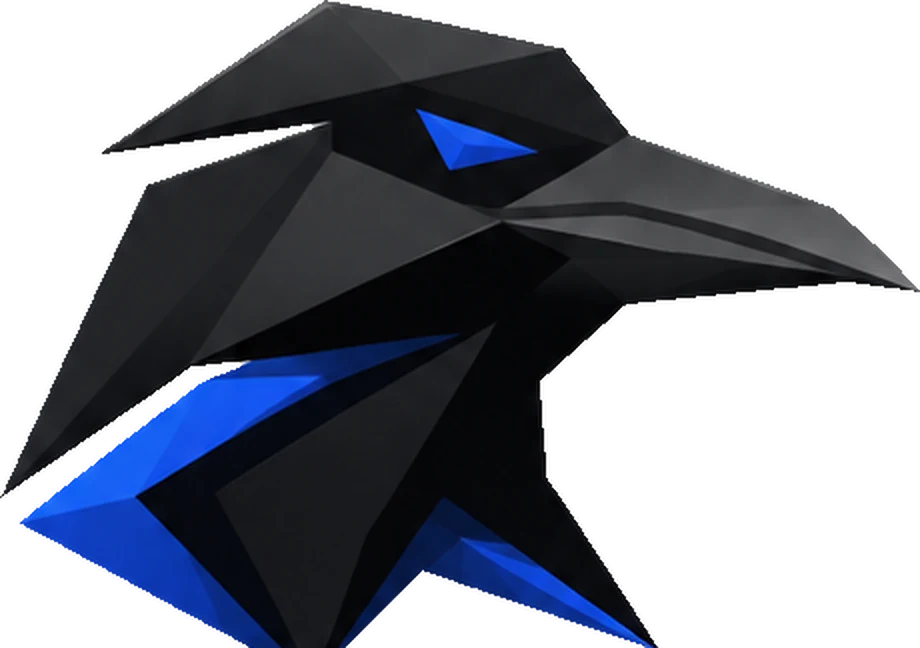
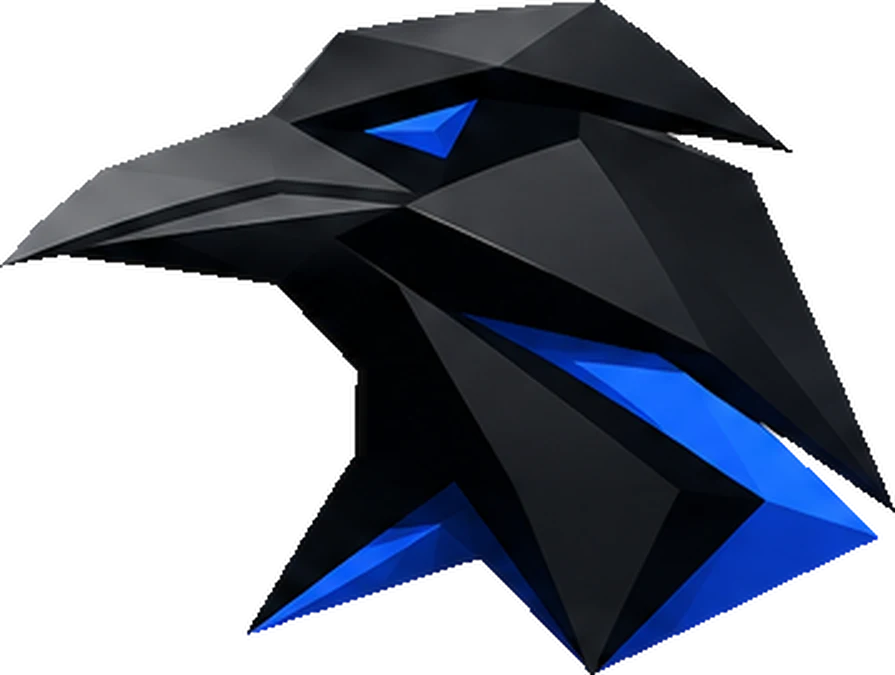
feat(marca): el cuervo mira al titular, y el azul sube a #0B5CFF
Mirando a la derecha, el ave le daba la espalda al texto que tiene al lado. Ahora usa la
orientación izquierda del kit — el render propio, no un espejo: espejar habría invertido
también la luz y las facetas dejan de tener sentido.

Y se acerca: justify-self: start en vez de end, y el hueco entre columnas baja de 6 a
3,5 rem como máximo. Al fondo de su columna quedaba a un palmo del titular, mirando a un
hueco en lugar de mirarlo a él.

El azul
-------
El kit declara #2563EB en su hoja de paleta, pero el dibujo del ave usa otro: su tono
dominante es #166BFB, mucho más vivo. Al lado del propio logo, el declarado se veía
apagado.

Pasa a #0B5CFF: saturación máxima y, además, más contraste que el declarado — 5,26x
contra 5,17x sobre blanco. Salir ganando en las dos cosas a la vez no suele pasar.

Favicon y tarjeta social regenerados con la orientación y el azul nuevos.
Medido a 320, 390, 834, 1440 y 1920 px en claro y oscuro: cero desbordamiento.

diff --git a/frontend/src/estilo.css b/frontend/src/estilo.css
@@ -20,17 +20,21 @@
 }
 
 :root {
-  /* La paleta viene del kit de marca: #2563EB, #111827, #1F2937, #6B7280, #F8FAFC.
-     Los cinco pasan AA sobre su fondo; el único que no llega es --acento-2, y por eso
-     solo aparece en degradados sobre texto grande. */
+  /* La paleta viene del kit de marca: #111827, #1F2937, #6B7280, #F8FAFC.
+
+     El azul NO es el #2563EB que declara la hoja del kit, sino #0B5CFF. El dibujo del ave
+     usa de verdad un azul mucho más vivo —su tono dominante es #166BFB— y el declarado se
+     quedaba apagado al lado del propio logo. #0B5CFF está a saturación máxima y además da
+     MÁS contraste que el declarado: 5,26x contra 5,17x sobre blanco. Salir ganando en las
+     dos cosas no suele pasar; cuando pasa, se coge. */
   --papel: #ffffff;
   --panel: #f8fafc;
   --tinta: #111827;
   --apagado: #6b7280;
-  --acento: #2563eb;
+  --acento: #0b5cff;
   /* El segundo acento existe para los degradados. Un degradado de un color a sí mismo
      aclarado se ve sucio; con dos tonos vecinos de verdad el titular tiene profundidad. */
-  --acento-2: #5b91f5;
+  --acento-2: #4f8cff;
   --linea: rgba(17, 24, 39, .14);
   --mono: "JetBrains Mono", ui-monospace, SFMono-Regular, Menlo, monospace;
   --serif: "Source Serif", Georgia, "Times New Roman", serif;
@@ -170,6 +174,10 @@ pre { overflow-x: auto; max-width: 100%; }
 
 /* El isotipo del kit: cabeza facetada en negro con las cuñas azules.
 
+   **Mira a la izquierda, a propósito.** Va a la derecha del titular, así que mirando a la
+   derecha le daba la espalda al texto. El kit trae las dos versiones y esta es un render
+   propio, no un espejo: espejar habría invertido también la luz.
+
    Un solo archivo para los dos temas. Se recortó del panel claro del kit y no del oscuro
    porque en el oscuro el fondo y las facetas negras del ave son el mismo negro —(7,8,13)
    contra (8,9,13)— y ahí no hay información que separar. Del claro sí sale, y funciona
@@ -182,11 +190,11 @@ pre { overflow-x: auto; max-width: 100%; }
 
 .marca { display: flex; align-items: center; gap: .55rem; text-decoration: none; }
 .marca .simbolo {
-  flex: none; width: 2.2rem; height: 1.55rem;
+  flex: none; width: 2.1rem; height: 1.6rem;
   background: url("/marca/simbolo.webp") center/contain no-repeat;
   transition: transform .35s cubic-bezier(.16, 1, .3, 1);
 }
-.marca:hover .simbolo { transform: translateX(2px) scale(1.06); }
+.marca:hover .simbolo { transform: translateX(-2px) scale(1.06); }
 .marca .palabra {
   font-family: var(--mono); font-weight: 800; font-size: 1.15rem; letter-spacing: -.02em;
 }
@@ -508,7 +516,7 @@ ul.prosa li { margin-bottom: .45rem; }
   right: 0;
   top: 1rem;
   width: clamp(11rem, 20vw, 17rem);
-  aspect-ratio: 920 / 648;
+  aspect-ratio: 895 / 675;
   background: url("/marca/simbolo.webp") center/contain no-repeat;
   pointer-events: none;
   z-index: 0;
@@ -517,7 +525,7 @@ ul.prosa li { margin-bottom: .45rem; }
 }
 
 @keyframes isotipo-entra {
-  from { opacity: 0; transform: translateX(1.5rem) scale(.94); }
+  from { opacity: 0; transform: translateX(1.8rem) scale(.94); }
   to   { opacity: 1; transform: none; }
 }
 @keyframes isotipo-flota {
@@ -668,7 +676,7 @@ ul.prosa li { margin-bottom: .45rem; }
        las dos y deja el «En Windows…» flotando lejos de la orden. Con la tercera fila en 1fr,
        todo el hueco cae ahí y el texto queda pegado a lo que explica. */
     grid-template-rows: auto auto 1fr auto auto;
-    column-gap: clamp(2.5rem, 5vw, 6rem);
+    column-gap: clamp(1.5rem, 3vw, 3.5rem);
     align-items: start;
   }
   .portada > .propuesta  { grid-area: propuesta; align-self: start; }
@@ -683,7 +691,9 @@ ul.prosa li { margin-bottom: .45rem; }
     grid-area: iso;
     position: relative; right: auto; top: auto;
     width: min(100%, clamp(13rem, 21vw, 24rem));
-    justify-self: end; align-self: center;
+    /* start y no end: pegada al titular. Al fondo de su columna quedaba a un palmo del texto
+       y el ave miraba a un hueco en vez de mirarlo a él. */
+    justify-self: start; align-self: center;
   }
 
   /* La promesa puede respirar un poco más cuando tiene su propia columna, pero sin pasar de

diff --git a/LEEME.md b/LEEME.md
@@ -158,9 +158,18 @@ sin servirlas al navegador.
 
 | Archivo | Dónde | Cómo |
 |---|---|---|
-| `simbolo.webp` | Barra y portada | El isotipo recortado, 920×648, 30 KB. **Un solo archivo para los dos temas** |
+| `simbolo.webp` | Barra y portada | El isotipo recortado, 895×675, 36 KB. **Un solo archivo para los dos temas**, y **mira a la izquierda** |
 | `favicon.svg` | La pestaña | El isotipo sobre cuadrado claro, con el PNG incrustado en base64 |
 | `enlace.jpg` | La tarjeta al compartir | 1200×630, generada renderizando el propio sitio con sus fuentes |
+
+### Mira a la izquierda, a propósito
+
+El isotipo va a la derecha del titular, así que mirando a la derecha le daba la espalda al texto.
+El kit trae las dos orientaciones y la que se usa es **el render propio del kit, no un espejo**:
+espejar habría invertido también la luz, y las facetas dejan de tener sentido.
+
+Por lo mismo va `justify-self: start` en su columna y no `end`: al fondo de la columna quedaba a
+un palmo del texto, mirando a un hueco en vez de mirarlo a él.
 
 ### Cómo se recortó, y por qué así
 
@@ -183,11 +192,16 @@ Se reescala al 200 % con Lanczos y aguanta: es un render de facetas planas, no u
 
 ### El color
 
-La paleta sale del kit: `#2563EB` · `#111827` · `#1F2937` · `#6B7280` · `#F8FAFC`.
+La paleta sale del kit: `#111827` · `#1F2937` · `#6B7280` · `#F8FAFC`.
 
-Comprobados los cinco sobre su fondo, todos pasan AA: el acento da 5,17× sobre blanco y el gris
-apagado 4,83×. En oscuro el acento sube a `#5b8dff` (6,70× sobre negro), porque `#2563EB` sobre
-negro se queda corto.
+**El azul no es el que declara la hoja del kit.** El kit dice `#2563EB`, pero el dibujo del ave
+usa de verdad un azul mucho más vivo —su tono dominante es `#166BFB`— y el declarado se quedaba
+apagado justo al lado del propio logo. El acento es `#0B5CFF`: saturación máxima y, además,
+**más** contraste que el declarado (5,26× contra 5,17× sobre blanco). Salir ganando en las dos
+cosas no suele pasar; cuando pasa, se coge.
+
+En oscuro sube a `#5b8dff` (6,70× sobre negro), porque un azul de ese peso sobre negro se queda
+corto.
 
 `--acento-2` (`#5b91f5` / `#8fbaff`) existe **solo para los degradados**: un degradado de un color
 a sí mismo aclarado se ve sucio. No llega a AA para texto corrido, y por eso aparece únicamente
